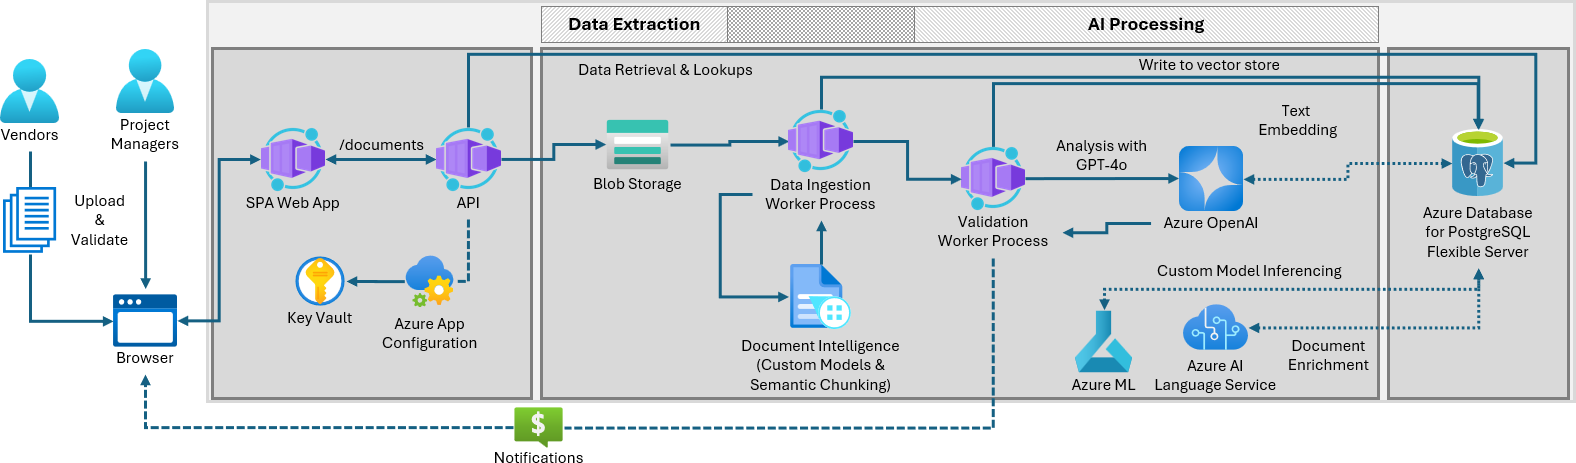
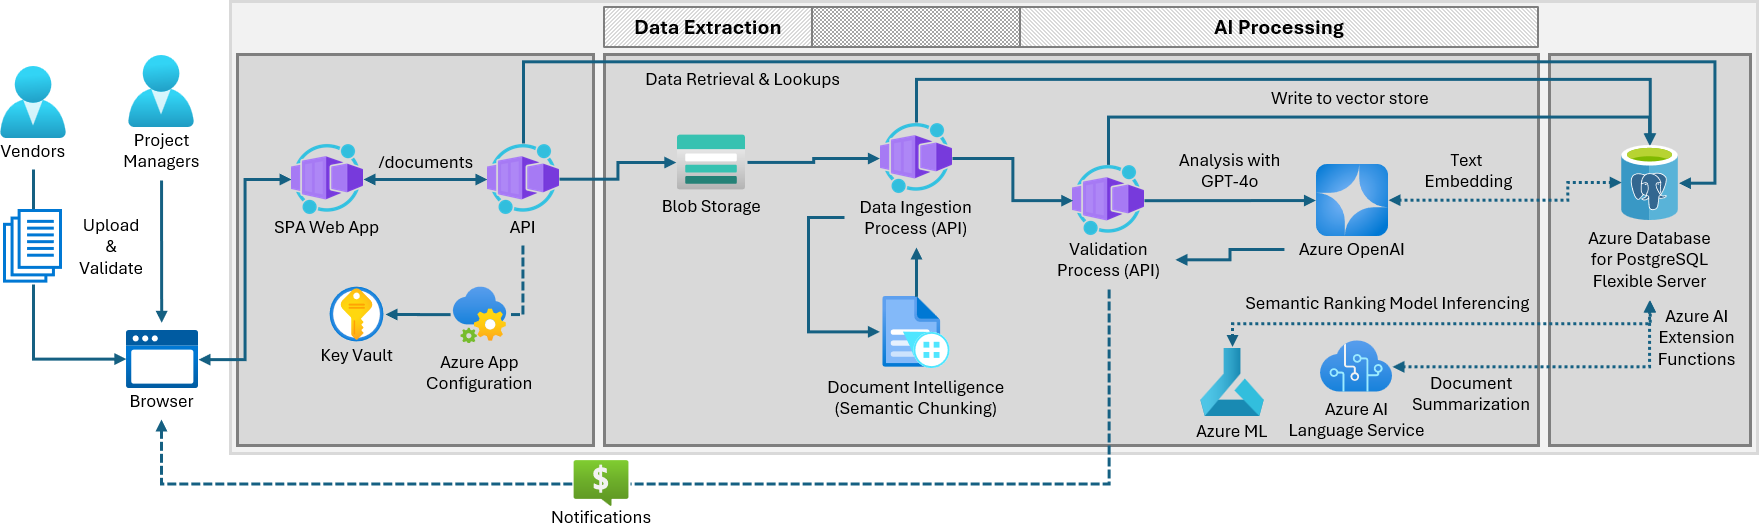
Updating arch diagrams and descriptions

diff --git a/docs/workshop/docs/01-Introduction/02-App-Architecture.md b/docs/workshop/docs/01-Introduction/02-App-Architecture.md
@@ -14,7 +14,7 @@ Throughout this solution accelerator, you will enhance the application with AI c
 
 ## Application Data Flow
 
-Select each tab below to learn more about how the movement of data in the context of the Woodgrove Bank Contract Management application!_
+_Select each tab below to learn more about how the movement of data in the context of the Woodgrove Bank Contract Management application!_
 
 === "Data Ingestion & AI Processing"
 
@@ -34,29 +34,29 @@ Select each tab below to learn more about how the movement of data in the contex
 
           2. Should processing errors be detected or system requirements change, documents can be easily reprocessed.
 
-    4. When new documents are added into blob storage, an Event Grid trigger is fired, starting the Data Ingestion Worker Process.
+    4. When new documents are added into blob storage, the Data Ingestion Process on the API is invoked.
 
-          1. The data ingestion worker process handles data extraction and processing by sending uploaded documents to the Azure AI Document Intelligence service.
+          1. The data ingestion process handles data extraction and processing by sending uploaded documents to the Azure AI Document Intelligence service.
 
           2. AI models within the Document Intelligence service are tailored to extract specific data fields, such as payment milestones, due dates, billable amounts, and vendor details. These models are trained to recognize the structure of financial documents, improving data extraction accuracy.
 
           3. Document Intelligence's Semantic Chunking capability recognizes document structures, capturing headings and chunking the content body based on semantic coherence, such as paragraphs and sentences. This ensures that the chunks are of higher quality for use in RAG pattern queries.
 
-    5. The extracted document data is securely stored in Azure Database for PostgreSQL flexible server.
+    5. The extracted document data securely written to Azure Database for PostgreSQL flexible server by the API.
 
     6. As part of the database insert statement, the GenAI capabilities of the `azure_ai` extension are used to:
 
-          1. Generate and save vector embeddings of document text using Azure OpenAI.
+          1. Generate and save vector embeddings of document chunks using Azure OpenAI's `text-embedding-ada-002` model.
 
           2. Create abstractive summaries of SOWs using the Azure AI Language service.
 
-    7. Document data is sent through an AI-driven data validation process that uses Azure OpenAI to analyze the incoming data, ensuring it conforms to expected standards and is accurate based on related data already in the system.
+    7. Document data is then sent through an AI-driven data validation process on the API that uses Azure OpenAI to analyze the data extracted by Document Intelligence, ensuring it conforms to expected standards and is accurate based on related data already in the system.
         
            1. Azure OpenAI's GPT-4o language model reviews all document data, employing natural language understanding to validate and cross-check information and ensure high data integrity.
            
            2. The RAG pattern allows the language model to cross-reference data between invoices and SOWs, evaluating payment milestone completion and billing and preventing issues like payment delays. It also validates that appropriate document sections and required compliance language exist in contracts and SOWs, helping to avoid incomplete contracts and compliance violations.
 
-    8. The data validation results are securely stored in Azure Database for PostgreSQL alongside the analyzed data.
+    8. The data validation results are securely stored in Azure Database for PostgreSQL alongside the analyzed data. The validation result is also vectorized on insert using the `azure_ai` extension.
 
 === "AI Copilot with RAG"
 
